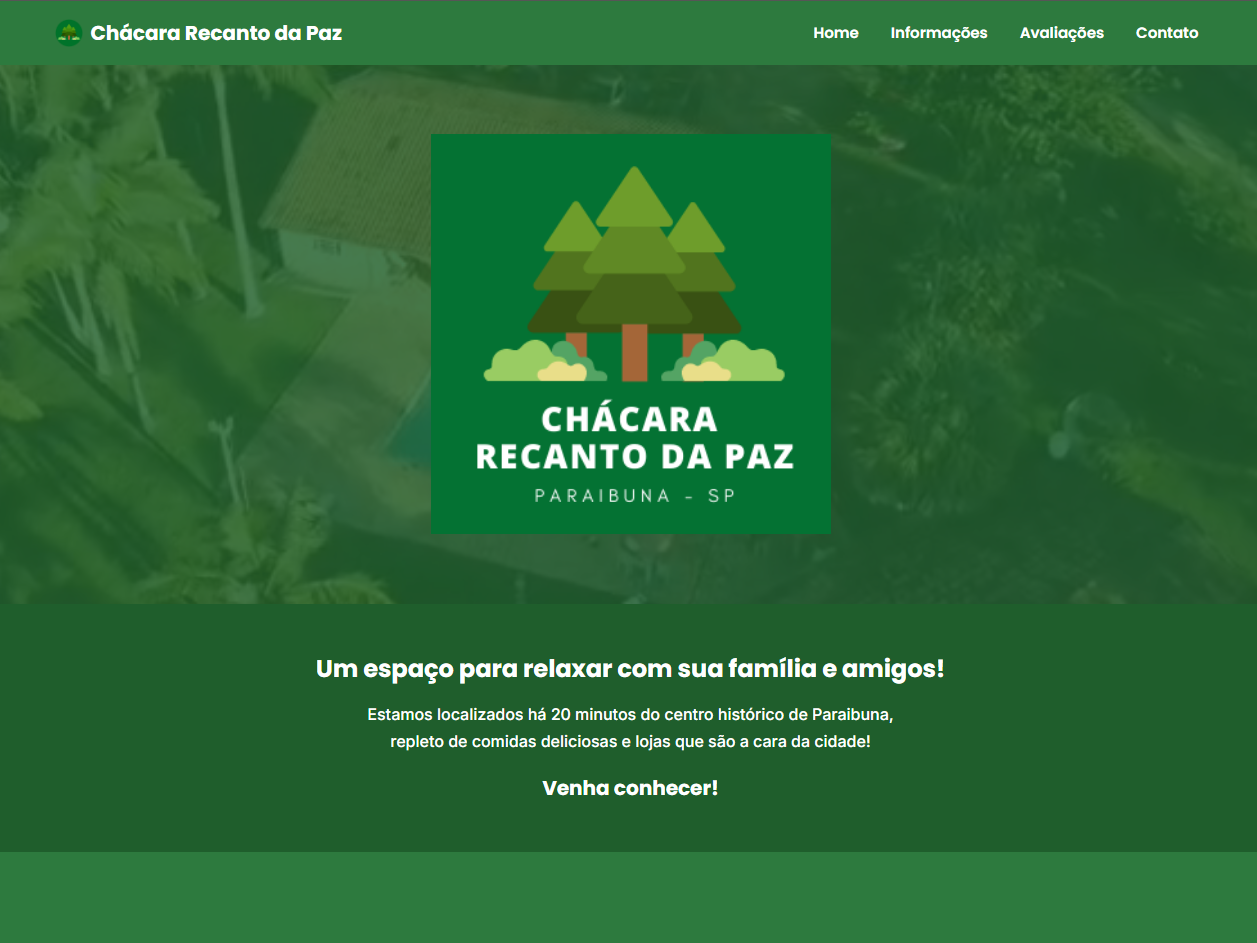
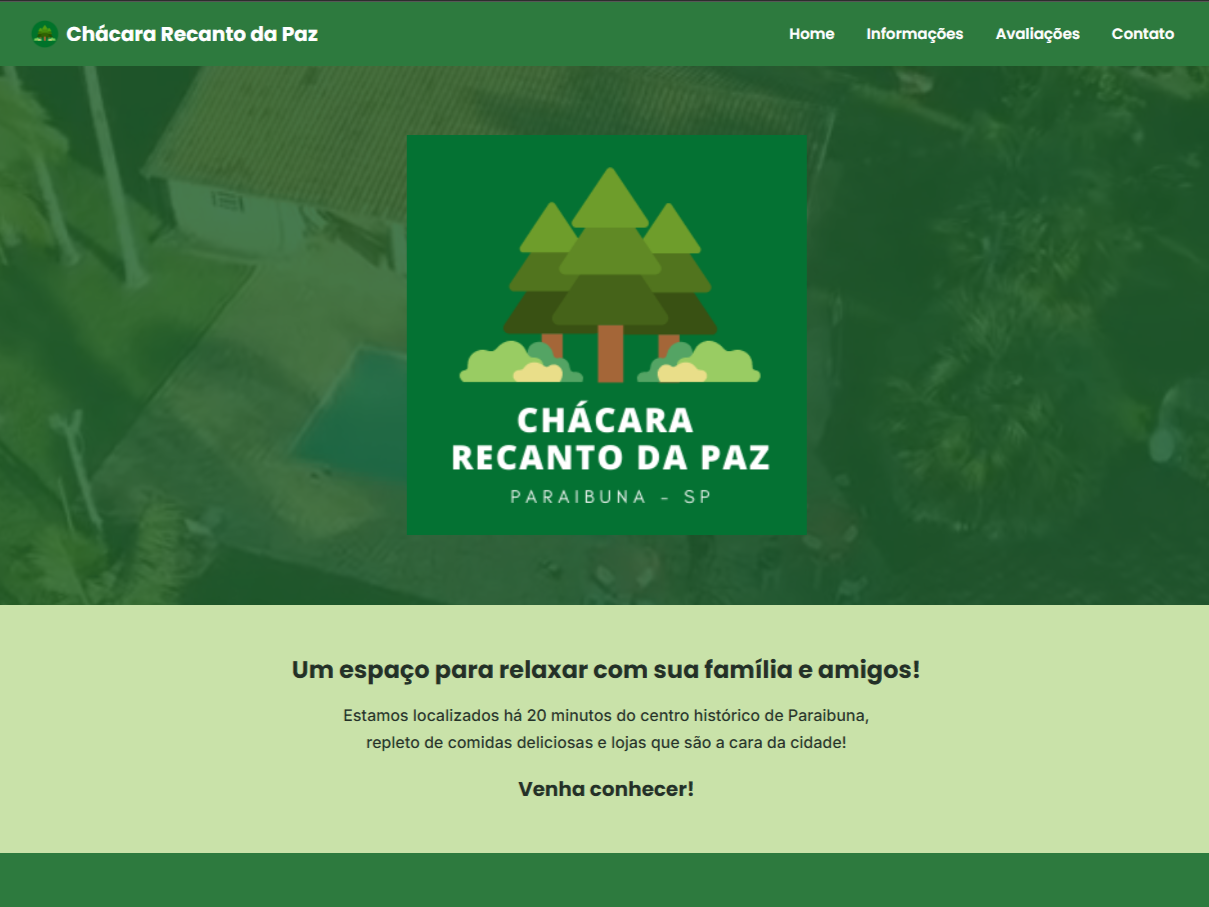
Adiciona projetos e carrossel paginado, reordena seções e ajusta cores
- Tatuagem: reativa Kane Voss, adiciona 5 projetos Julia/Julio Morais
- Fotografia: reativa card Mara Valente
- Novo componente ProjectGrid: mostra 4 projetos por vez com setas
  prev/next e slide animado (carrossel) quando a seção tem mais de 4
- Nova ordem de seções (Comercial, Tatuagem, Fotografia, Gastronomia,
  Gaming) e paleta de cores (grafite, verde, azul, repete)
- Ajustes de espaçamento mobile e correção de subpixel no carrossel

diff --git a/app/page.tsx b/app/page.tsx
@@ -2,7 +2,7 @@
 
 import { useEffect, useRef, useState } from 'react';
 import Image from 'next/image';
-import { ArrowUpRight, Check, ChevronDown, Mail } from 'lucide-react';
+import { ArrowUpRight, Check, ChevronDown, ChevronLeft, ChevronRight, Mail } from 'lucide-react';
 import FlowArt, { FlowSection } from '@/components/ui/story-scroll';
 
 /* -------------------------------------------------------------------------- */
@@ -182,6 +182,102 @@ function ProjectCard({ title, subtitle, href, image, accent, live, pick }: Proje
 }
 
 /* -------------------------------------------------------------------------- */
+/*  ProjectGrid                                                               */
+/*  Mesmo grid de 4 colunas usado em toda seção, mas só mostra 4 projetos     */
+/*  por vez. Com mais de 4, aparece um par de setas (entre o texto e os       */
+/*  cards, alinhado à esquerda) e os grupos de 4 deslizam como um carrossel   */
+/*  (translateX animado) em vez de trocar de uma vez.                        */
+/* -------------------------------------------------------------------------- */
+
+interface ProjectGridProps {
+  projects: Omit<ProjectCardProps, 'accent'>[];
+  accent: string;
+}
+
+const PROJECTS_PER_PAGE = 4;
+/** Espaço entre os grupos de 4 no carrossel — evita que a borda do grupo    */
+/* anterior "espie" na tela ao lado por arredondamento de subpixel no mobile. */
+const PANEL_GAP = 16;
+
+const pagerButtonClass =
+  'flex h-9 w-9 items-center justify-center rounded-full border border-white/20 bg-white/5 text-white transition-all duration-300 ease-out hover:border-white/40 hover:bg-white/10 focus:outline-none focus-visible:ring-2 focus-visible:ring-white/60 disabled:pointer-events-none disabled:opacity-25';
+
+function ProjectGrid({ projects, accent }: ProjectGridProps) {
+  const pageCount = Math.ceil(projects.length / PROJECTS_PER_PAGE);
+  const [page, setPage] = useState(0);
+  const pages = Array.from({ length: pageCount }, (_, i) =>
+    projects.slice(i * PROJECTS_PER_PAGE, i * PROJECTS_PER_PAGE + PROJECTS_PER_PAGE),
+  );
+
+  // Mede a largura real do "palco" do carrossel em px — desloca o track por esse
+  // valor exato (em vez de translateX em %), o que evita a bordinha de 1px do
+  // grupo anterior que aparece por arredondamento de subpixel em alguns celulares.
+  const trackWrapRef = useRef<HTMLDivElement>(null);
+  const [panelWidth, setPanelWidth] = useState(0);
+
+  useEffect(() => {
+    const el = trackWrapRef.current;
+    if (!el) return;
+
+    const update = () => setPanelWidth(el.clientWidth);
+    update();
+
+    const ro = new ResizeObserver(update);
+    ro.observe(el);
+    return () => ro.disconnect();
+  }, []);
+
+  return (
+    <div>
+      {pageCount > 1 && (
+        <div className="mt-[clamp(2rem,4vw,3rem)] flex items-center gap-3">
+          <button
+            type="button"
+            onClick={() => setPage((p) => Math.max(0, p - 1))}
+            disabled={page === 0}
+            aria-label="Ver projetos anteriores"
+            className={pagerButtonClass}
+          >
+            <ChevronLeft className="h-4 w-4" strokeWidth={2.2} />
+          </button>
+          <button
+            type="button"
+            onClick={() => setPage((p) => Math.min(pageCount - 1, p + 1))}
+            disabled={page === pageCount - 1}
+            aria-label="Ver mais projetos"
+            className={pagerButtonClass}
+          >
+            <ChevronRight className="h-4 w-4" strokeWidth={2.2} />
+          </button>
+        </div>
+      )}
+
+      <div ref={trackWrapRef} className={`${pageCount > 1 ? 'mt-6' : 'mt-[clamp(2rem,4vw,3rem)]'} overflow-hidden`}>
+        <div
+          className="flex transition-transform duration-700 ease-[cubic-bezier(0.22,1,0.36,1)]"
+          style={{
+            gap: `${PANEL_GAP}px`,
+            transform: `translate3d(-${page * (panelWidth + PANEL_GAP)}px, 0, 0)`,
+          }}
+        >
+          {pages.map((group, i) => (
+            <div
+              key={i}
+              style={{ width: panelWidth || '100%', flex: '0 0 auto' }}
+              className="grid grid-cols-2 gap-[clamp(1.25rem,2.2vw,2rem)] lg:grid-cols-4"
+            >
+              {group.map((p) => (
+                <ProjectCard key={p.href} {...p} accent={accent} />
+              ))}
+            </div>
+          ))}
+        </div>
+      </div>
+    </div>
+  );
+}
+
+/* -------------------------------------------------------------------------- */
 /*  Botão "próxima seção" — garante navegação mesmo se o scroll travar         */
 /*  (útil principalmente no mobile). Avança ~1 viewport; no fim, volta ao topo.*/
 /* -------------------------------------------------------------------------- */
@@ -264,12 +360,12 @@ interface SectionHeadProps {
 
 function SectionHead({ label, kicker, title, description, divider = 'border-white/15' }: SectionHeadProps) {
   return (
-    <div>
+    <div className="mt-6 lg:mt-0">
       <div className="flex items-center justify-between gap-3 font-mono text-[0.65rem] uppercase tracking-[0.2em] text-white/60 sm:text-[0.7rem] sm:tracking-[0.25em]">
         <span className="truncate">{label}</span>
         <span className="hidden shrink-0 sm:inline">{kicker}</span>
       </div>
-      <hr className={`my-[1.6vw] border-t ${divider}`} />
+      <hr className={`my-[clamp(0.75rem,1.6vw,1.5rem)] border-t ${divider}`} />
       <h2 className="font-display text-[clamp(1.75rem,5.5vw,4rem)] font-bold leading-[0.95] tracking-tight text-white">
         {title}
       </h2>
@@ -298,8 +394,13 @@ const commercialProjects = [
 
 // Tatuagem & arte autoral — estúdios com portfólio + agendamento, o traço em primeiro plano.
 const tattooProjects = [
-  { title: 'Kane Voss', subtitle: 'Tatuagem · Estúdio', href: 'https://kanevoss.vercel.app/', image: '/images/kanevoss.png' },
-  { title: 'Larissa Wand', subtitle: 'Tatuagem · Fotografia', href: 'https://projetolk.vercel.app/', image: '/images/larissawand.png', pick: true },
+  { title: 'Wand', subtitle: 'Tatuagem · Fotografia', href: 'https://projetolk.vercel.app/', image: '/images/larissawand.png', pick: true },
+  { title: 'Morais V1', subtitle: 'Tatuagem', href: 'https://juliamoraisv1.vercel.app/pt', image: '/images/juliav1.png' },
+  { title: 'Voss', subtitle: 'Tatuagem · Estúdio', href: 'https://kanevoss.vercel.app/', image: '/images/kanevoss.png' },
+  { title: 'Morais V5', subtitle: 'Tatuagem', href: 'https://juliomoraisv5.vercel.app/pt', image: '/images/juliov5.png' },
+  { title: 'Morais V4', subtitle: 'Tatuagem', href: 'https://juliomoraisv4.vercel.app/', image: '/images/juliov4.png' },
+  { title: 'Morais V2', subtitle: 'Tatuagem', href: 'https://juliamoraisv2.vercel.app/', image: '/images/juliav2.png' },
+  { title: 'Morais V3', subtitle: 'Tatuagem', href: 'https://juliamoraisv3.vercel.app/', image: '/images/juliav3.png' },
 ];
 
 const gastronomyProjects = [
@@ -311,12 +412,11 @@ const gastronomyProjects = [
 ];
 
 const studioProjects = [
-  { title: 'Nora Selva', subtitle: 'Fotografia · Editorial', href: 'https://noraselva.vercel.app/', image: '/images/noraselva.png', pick: true },
-  { title: 'Pedro Tezzo', subtitle: 'Fotografia', href: 'https://estudiotezzo.vercel.app/', image: '/images/tezzo.png' },
-  { title: 'Théo Vasconcelos', subtitle: 'Fotografia', href: 'https://estudiovasconcelos.vercel.app/', image: '/images/vasconcelos.png', pick: true },
-  { title: 'Théo Marchetti', subtitle: 'Fotografia', href: 'https://estudiomarquetti.vercel.app/', image: '/images/marchetti.png' },
-  // Oculto temporariamente a pedido — reativar quando o cliente liberar.
-  // { title: 'Mara Valente', subtitle: 'Fotografia · Casamentos', href: 'https://maravalente.vercel.app/', image: '/images/maravalente.png' },
+  { title: 'Selva', subtitle: 'Fotografia · Editorial', href: 'https://noraselva.vercel.app/', image: '/images/noraselva.png', pick: true },
+  { title: 'Tezzo', subtitle: 'Fotografia', href: 'https://estudiotezzo.vercel.app/', image: '/images/tezzo.png' },
+  { title: 'Vasconcelos', subtitle: 'Fotografia', href: 'https://estudiovasconcelos.vercel.app/', image: '/images/vasconcelos.png', pick: true },
+  { title: 'Marchetti', subtitle: 'Fotografia', href: 'https://estudiomarquetti.vercel.app/', image: '/images/marchetti.png' },
+  { title: 'Valente', subtitle: 'Fotografia · Casamentos', href: 'https://maravalente.vercel.app/', image: '/images/maravalente.png' },
 ];
 
 // Gaming & streamers — hubs que reúnem todo o conteúdo de um criador num só lugar.
@@ -423,50 +523,38 @@ export default function Home() {
           </div>
         </FlowSection>
 
-        {/* Seção 02 — Soluções Comerciais (Verde — grama das encostas) */}
-        <FlowSection aria-label="Soluções Comerciais" style={{ backgroundColor: '#2D3318', color: '#fff' }}>
+        {/* Seção 02 — Soluções Comerciais (Grafite — pedra) */}
+        <FlowSection aria-label="Soluções Comerciais" style={{ backgroundColor: '#2C3C40', color: '#fff' }}>
           <SectionHead
             label="Negócios & Landing Pages"
             kicker="Comercial"
             title="Soluções Comerciais"
             description="Sites de conversão para negócios reais — de reservas a vendas, pensados para velocidade, clareza e confiança."
           />
-          <div className="mt-[clamp(2rem,4vw,3rem)] grid grid-cols-2 gap-[clamp(1.25rem,2.2vw,2rem)] lg:grid-cols-4">
-            {commercialProjects.map((p) => (
-              <ProjectCard key={p.href} {...p} accent="#4E5E27" />
-            ))}
-          </div>
+          <ProjectGrid projects={commercialProjects} accent="#4B666D" />
         </FlowSection>
 
-        {/* Seção 03 — Fotografia & Estúdios (Azul — camisa) */}
-        <FlowSection aria-label="Fotografia e Estúdios" style={{ backgroundColor: '#16335E', color: '#fff' }}>
+        {/* Seção 03 — Tatuagem & Arte (Verde — grama das encostas) */}
+        <FlowSection aria-label="Tatuagem & Arte" style={{ backgroundColor: '#2D3318', color: '#fff' }}>
+          <SectionHead
+            label="Tatuagem & Arte Autoral"
+            kicker="Pele"
+            title="Tatuagem & Arte"
+            description="Portfólio do artista e agendamento no mesmo lugar, com o traço sempre em primeiro plano."
+          />
+          {/* 6 projetos — mesmo card das outras seções, 4 por página com setas prev/next. */}
+          <ProjectGrid projects={tattooProjects} accent="#4E5E27" />
+        </FlowSection>
+
+        {/* Seção 04 — Fotografia & Estúdios (Azul — camisa) */}
+        <FlowSection aria-label="Fotografia e Estúdios" style={{ backgroundColor: '#162E53', color: '#fff' }}>
           <SectionHead
             label="Estúdios Criativos"
             kicker="Visual"
             title="Fotografia & Estúdios"
             description="Vitrines digitais para fotógrafos e estúdios criativos, onde a imagem é a protagonista e a navegação some para dar espaço à obra."
           />
-          <div className="mt-[clamp(2rem,4vw,3rem)] grid grid-cols-2 gap-[clamp(1.25rem,2.2vw,2rem)] lg:grid-cols-4">
-            {studioProjects.map((p) => (
-              <ProjectCard key={p.href} {...p} accent="#2E5C92" />
-            ))}
-          </div>
-        </FlowSection>
-
-        {/* Seção 04 — Tatuagem & Arte (Marrom — ruínas/terra) */}
-        <FlowSection aria-label="Tatuagem & Arte" style={{ backgroundColor: '#382B1A', color: '#fff' }}>
-          <SectionHead
-            label="Tatuagem & Arte Autoral"
-            kicker="Pele"
-            title="Tatuagem & Arte"
-            description="Estúdios de tatuagem e arte autoral: o portfólio do artista e o agendamento no mesmo lugar, com o traço sempre em primeiro plano."
-          />
-          {/* Mesmo grid das outras seções (4 col no desktop) p/ manter o tamanho de card. */}
-          <div className="mt-[clamp(2rem,4vw,3rem)] grid grid-cols-2 gap-[clamp(1.25rem,2.2vw,2rem)] lg:grid-cols-4">
-            {tattooProjects.map((p) => (
-              <ProjectCard key={p.href} {...p} accent="#7A5B33" />
-            ))}
-          </div>
+          <ProjectGrid projects={studioProjects} accent="#2E5C92" />
         </FlowSection>
 
         {/* Seção 05 — Gastronomia (Verde — grama das encostas) */}
@@ -477,15 +565,11 @@ export default function Home() {
             title="Gastronomia"
             description="Cardápios que dão água na boca e receitas interativas para cozinhar passo a passo — pizza de forno a lenha, café especial e muito mais, do apetite à mesa."
           />
-          <div className="mt-[clamp(2rem,4vw,3rem)] grid grid-cols-2 gap-[clamp(1.25rem,2.2vw,2rem)] lg:grid-cols-4">
-            {gastronomyProjects.map((p) => (
-              <ProjectCard key={p.href} {...p} accent="#4E5E27" />
-            ))}
-          </div>
+          <ProjectGrid projects={gastronomyProjects} accent="#4E5E27" />
         </FlowSection>
 
-        {/* Seção 06 — Gaming & Streamers (Azul — camisa) */}
-        <FlowSection aria-label="Gaming e Streamers" style={{ backgroundColor: '#16335E', color: '#fff' }}>
+        {/* Seção 06 — Gaming & Streamers (Grafite — pedra) */}
+        <FlowSection aria-label="Gaming e Streamers" style={{ backgroundColor: '#2C3C40', color: '#fff' }}>
           <SectionHead
             label="Gaming & Comunidade"
             kicker="Streamers"
@@ -493,12 +577,7 @@ export default function Home() {
             description="Hubs que reúnem todo o conteúdo de um criador — Twitch, YouTube e mais — num só lugar, prontos para assistir sem sair da página."
             divider="border-white/20"
           />
-          {/* Mesmo grid das outras seções (4 col no desktop) p/ manter o tamanho de card. */}
-          <div className="mt-[clamp(2rem,4vw,3rem)] grid grid-cols-2 gap-[clamp(1.25rem,2.2vw,2rem)] lg:grid-cols-4">
-            {gamingProjects.map((p) => (
-              <ProjectCard key={p.href} {...p} accent="#2E5C92" />
-            ))}
-          </div>
+          <ProjectGrid projects={gamingProjects} accent="#4B666D" />
         </FlowSection>
 
         {/* Seção 07 — Contato (Preto) */}